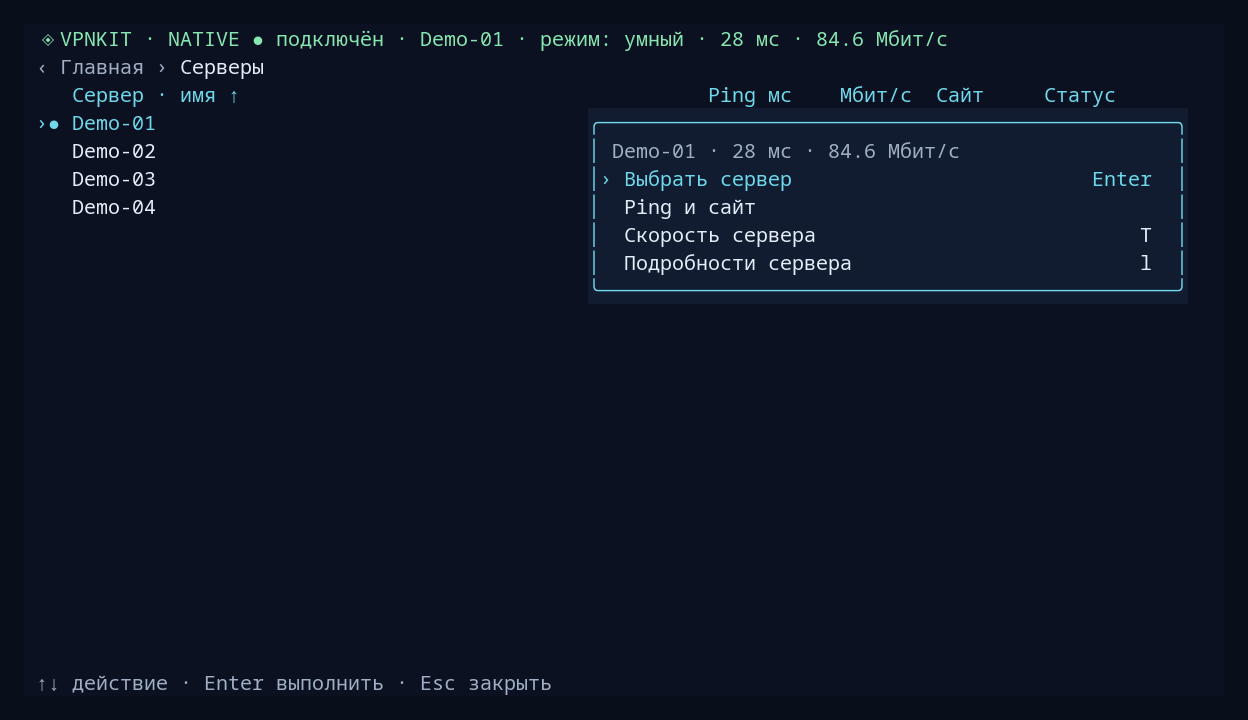
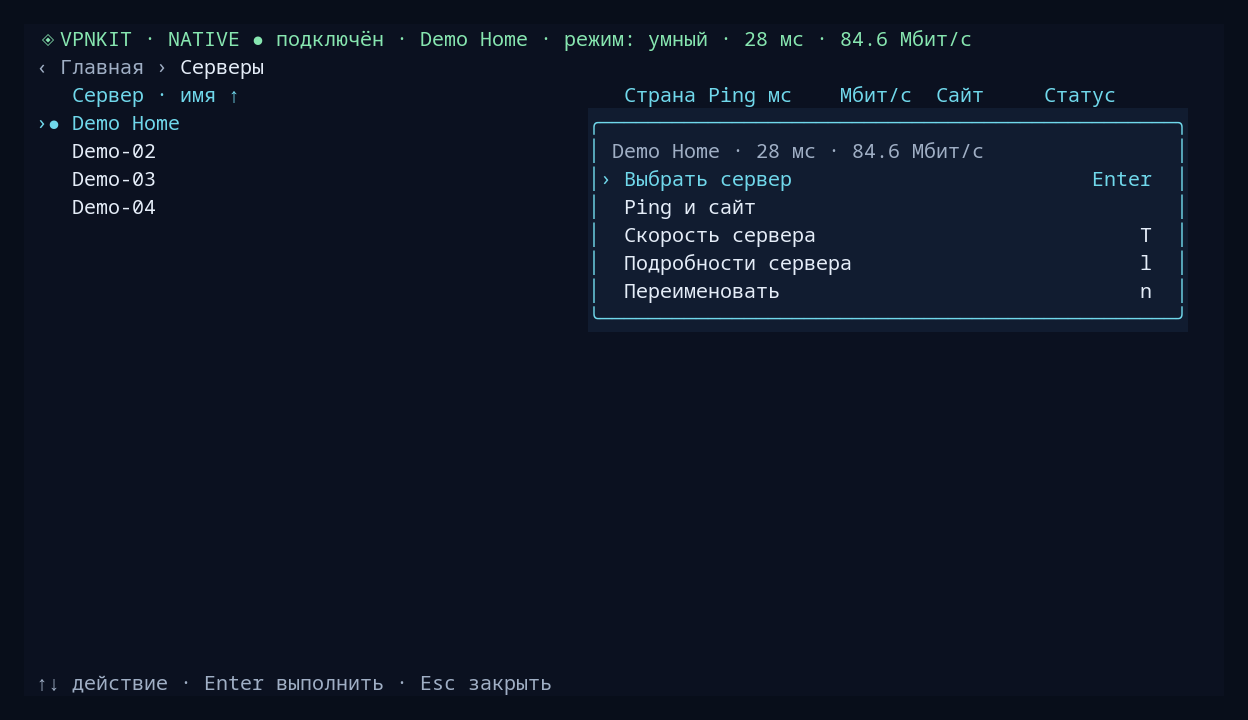
Document server countries and custom names

diff --git a/scripts/vpnkit/tui/capture-readme.ts b/scripts/vpnkit/tui/capture-readme.ts
@@ -11,7 +11,7 @@ await mkdir(output, { recursive: true });
 const status: Status = { runtime:"native", installed:true, vpn_state:"active", gateway_state:"healthy", subscription:"configured", routing_mode:"smart", networkmanager_configured:"yes", networkmanager_active:"yes", diagnostics:"ok" };
 const servers: Server[] = [
   ["Demo-01", 28, 84.6], ["Demo-02", 35, 72.3], ["Demo-03", 42, 61.8], ["Demo-04", 186, 39.4],
-].map(([name, latency, speed], i) => ({ profile_id:"demo-subscription", server_id:`srv_${String(i+1).repeat(27)}`, display_name:String(name), country:["NL", "DE", "FI", "JP"][i], selected:i===0, status:"ready", ping_status:"ready", availability:"ready", latency_ms:Number(latency), download_mbps:Number(speed), download_seconds:3 }));
+].map(([name, latency, speed], i) => ({ profile_id:"demo-subscription", server_id:`srv_${String(i+1).repeat(27)}`, display_name:i === 0 ? "Demo Home" : String(name), ...(i === 0 ? { original_name: String(name) } : {}), country:["NL", "DE", "FI", "JP"][i], selected:i===0, status:"ready", ping_status:"ready", availability:"ready", latency_ms:Number(latency), download_mbps:Number(speed), download_seconds:3 }));
 const profiles: NonNullable<Reply["profiles"]> = { active:"demo-subscription", items:[
   {id:"demo-subscription",name:"Моя подписка",kind:"subscription",count:4,stale:false},
   {id:"demo-vps",name:"Мой VPS · Hysteria2",kind:"server",count:1,stale:false},

diff --git a/docs/guide.ru.md b/docs/guide.ru.md
@@ -82,7 +82,7 @@ cd local-vpn-kde
 
 1. Нажмите `c` и добавьте первую подписку или одиночную ссылку на сервер. После настройки установленного native `c` открывает профили.
 2. Если служба остановлена, запустите её через плитку **Подключение** или `s`. Откройте **Серверы** (`v`); при необходимости обновите список (`r`).
-3. Выберите строку стрелками и нажмите `Enter`. В меню можно проверить ping и сайт, скорость или открыть подробности. Выберите **Выбрать сервер** и подтвердите выбор: по умолчанию выбрано «Нет», стрелки влево/вправо перемещают между кнопками.
+3. Выберите строку стрелками и нажмите `Enter`. В меню доступны «Выбрать сервер», «Ping и сайт», «Скорость сервера», «Подробности сервера» и «Переименовать». Выберите **Выбрать сервер** и подтвердите выбор: по умолчанию выбрано «Нет», стрелки влево/вправо перемещают между кнопками.
 4. Вернитесь на главный экран и выберите **Подключение** или нажмите `s` для подключения VPN.
 
 **«Служба готова» ещё не означает «VPN подключён».** Служба может работать для проверок, пока системное подключение выключено.
@@ -99,10 +99,10 @@ cd local-vpn-kde
 | `d` | Диагностика |
 | `i` | Настройки |
 | `Tab` / `Shift+Tab` | Следующий / предыдущий раздел из четырёх перечисленных выше |
-| `/` | Фильтр имён; `Enter` сохраняет, `Esc` очищает |
+| `/` | Фильтр отображаемого и исходного имени и кода страны; `Enter` сохраняет, `Esc` очищает |
 | `p` / `t` | Ping и сайт / скорость и сайт показанных серверов |
 | `T` / `b` | Проверить скорость сервера под курсором / предложить самый быстрый измеренный из показанных с подтверждением |
-| `o` / `[` / `]` / `\` | Следующая сортировка / выбрать столбец / обратить направление |
+| `o` / `[` / `]` / `\` | Следующая сортировка (имя, ping, скорость, сайт, страна) / выбрать столбец / обратить направление |
 | `l` | Сведения о сервере под курсором |
 | `:` / `Ctrl+P` | Поиск команд |
 | `j` / `k` | Задачи / отмена операции |
@@ -111,6 +111,12 @@ cd local-vpn-kde
 | `?` / `q` | Справка / выход из интерфейса |
 
 Строка состояния показывает выбранный сервер, а нижняя строка — доступные клавиши. `a` открывает автозапуск и не выполняет ping. Проверки могут пересекаться или ожидать в очереди; `j` показывает выполняющиеся, ожидающие и завершённые операции. Доступные действия и сочетания зависят от раздела и состояния службы.
+
+Таблица серверов показывает имя, двухбуквенный код страны, ping, скорость, доступность сайта и статус. При ширине таблицы меньше 60 символов столбец «Страна» скрыт. Сортировку можно выбрать и нажатием на заголовок столбца.
+
+Чтобы переименовать сервер, нажмите `Enter` на его строке и выберите «Переименовать». В редакторе `Enter` сохраняет, `Esc` отменяет, пустая строка возвращает имя из подписки. Редактор принимает до 60 символов; приложение нормализует имя, сохраняет не более 48 символов и требует не менее двух слов. Можно сохранить до 500 переименований. В локальном файле состояния `server-names.json` хранятся идентификаторы серверов и заданные имена; они переживают обновление подписки и перезапуск и не удаляются при удалении профиля. Исходное имя переименованного сервера показано в подробностях.
+
+Страна определяется офлайн по встроенному набору [server-country](https://github.com/sapics/ip-location-db) (общественное достояние, PDDL 1.0); адрес сервера не отправляется в сервис определения страны. Для известного IP код доступен сразу, для имени хоста может появиться после успешного ping, проверки или замера скорости. TCP ping использует адрес установленного соединения; при определении через прокси неоднозначные или неизвестные адреса не дают нового кода, а ранее определённый может сохраниться. Встроенная база — снимок данных, поэтому код может устареть.
 
 Настройки автозапуска применяются при следующем входе в KDE. Можно запускать только шлюз либо шлюз с подключением VPN. Отключение автозапуска не разрывает текущее соединение; TUI при входе автоматически не открывается. У Docker уже работающий шлюз также может перезапускаться согласно политике контейнера.
 

diff --git a/README.md b/README.md
@@ -67,7 +67,11 @@ cd local-vpn-kde
 
 Строка состояния показывает подключение, выбранный сервер и режим. `?` открывает справку, `:` или `Ctrl+P` — поиск команд, `j` — задачи. Проверки могут выполняться параллельно или ждать в очереди; отменить задачу можно в панели задач.
 
-В таблице `Enter` открывает меню строки: выбор сервера, ping и сайт, скорость или подробности. `/` фильтрует имена, `Enter` сохраняет фильтр, `Esc` очищает. `p` проверяет ping и сайт, `t` — скорость и сайт показанных серверов; `T` проверяет скорость сервера под курсором, `b` предлагает самый быстрый измеренный среди показанных с подтверждением. `o` меняет сортировку, `[` и `]` выбирают столбец, `\` меняет направление; заголовок столбца также можно нажать мышью. `l` открывает сведения, `i` — настройки; в профилях `X` удаляет активный профиль после подтверждения. `a` открывает автозапуск и не запускает ping.
+В таблице показаны имя, двухбуквенный код страны, ping, скорость, доступность сайта и статус. При ширине таблицы меньше 60 символов столбец «Страна» скрыт. `Enter` открывает меню строки: «Выбрать сервер», «Ping и сайт», «Скорость сервера», «Подробности сервера» и «Переименовать». `/` фильтрует отображаемое и исходное имена и код страны, `Enter` сохраняет фильтр, `Esc` очищает. `p` проверяет ping и сайт, `t` — скорость и сайт показанных серверов; `T` проверяет скорость сервера под курсором, `b` предлагает самый быстрый измеренный среди показанных с подтверждением. `o` меняет сортировку по кругу (имя, ping, скорость, сайт, страна), `[` и `]` выбирают столбец, `\` меняет направление; заголовок столбца также можно нажать мышью. `l` открывает сведения, `i` — настройки; в профилях `X` удаляет активный профиль после подтверждения. `a` открывает автозапуск и не запускает ping.
+
+В меню строки выберите «Переименовать»: `Enter` сохраняет имя, `Esc` отменяет, пустая строка возвращает имя из подписки. Редактор принимает до 60 символов; приложение нормализует имя, сохраняет не более 48 символов и требует не менее двух слов. Можно сохранить до 500 переименований. В локальном файле состояния `server-names.json` хранятся идентификаторы серверов и заданные имена; они переживают обновление подписки и перезапуск и не удаляются при удалении профиля. Исходное имя переименованного сервера показано в подробностях.
+
+Страна определяется офлайн по встроенному набору [server-country](https://github.com/sapics/ip-location-db) (общественное достояние, PDDL 1.0); адрес сервера не отправляется в сервис определения страны. Для известного IP код доступен сразу, для имени хоста может появиться после успешного ping, проверки или замера скорости. TCP ping использует адрес установленного соединения; при определении через прокси неоднозначные или неизвестные адреса не дают нового кода, а ранее определённый может сохраниться. Встроенная база — снимок данных, поэтому код может устареть.
 
 ## Подробнее
 

diff --git a/docs/guide.en.md b/docs/guide.en.md
@@ -82,7 +82,7 @@ The interface opens on a home screen with Connection («Подключение»
 
 1. Press `c` and add the first subscription or an individual server link. Once installed native mode is configured, `c` opens Profiles («Профили»).
 2. If the service is stopped, start it using the **Connection** tile or `s`. Open **Servers** (`v`, «Серверы»); refresh the list if needed (`r`).
-3. Choose a row with the arrows and press `Enter`. The menu can check ping and site, test speed or show details. Choose **Select server** («Выбрать сервер») and confirm: No («Нет») is selected by default, and Left/Right move between the buttons.
+3. Choose a row with the arrows and press `Enter`. The menu offers Select server («Выбрать сервер»), Ping and site («Ping и сайт»), Server speed («Скорость сервера»), Server details («Подробности сервера») and Rename («Переименовать»). Choose **Select server** and confirm: No («Нет») is selected by default, and Left/Right move between the buttons.
 4. Return home and choose **Connection** or press `s` to connect the VPN.
 
 **“Service ready” does not mean “VPN connected.”** The service can run checks while the system VPN connection remains off.
@@ -99,10 +99,10 @@ The interface opens on a home screen with Connection («Подключение»
 | `d` | Diagnostics |
 | `i` | Settings |
 | `Tab` / `Shift+Tab` | Next / previous section among the four listed above |
-| `/` | Filter names; `Enter` keeps it, `Esc` clears it |
+| `/` | Filter displayed and original names and country code; `Enter` keeps it, `Esc` clears it |
 | `p` / `t` | Ping and site / speed and site for shown servers |
 | `T` / `b` | Test the speed of the row under the cursor / offer the fastest measured shown server for confirmation |
-| `o` / `[` / `]` / `\` | Cycle sort / choose column / reverse direction |
+| `o` / `[` / `]` / `\` | Cycle sort (name, ping, speed, site, country) / choose column / reverse direction |
 | `l` | Details for the row under the cursor |
 | `:` / `Ctrl+P` | Search commands |
 | `j` / `k` | Activity / cancel operation |
@@ -111,6 +111,12 @@ The interface opens on a home screen with Connection («Подключение»
 | `?` / `q` | Help / exit the interface |
 
 The status line names the selected server and the footer shows available keys. `a` opens autostart; it does not run ping. Checks can overlap or wait in a queue; `j` shows running, queued and finished operations. Available actions and shortcuts depend on the section and service state.
+
+The server table shows name, two-letter country code, ping, speed, website access and status. The Country («Страна») column is hidden when the table is narrower than 60 characters. You can also choose a sort by clicking a column header.
+
+To rename a server, press `Enter` on its row and choose Rename («Переименовать»). In the editor, `Enter` saves, `Esc` cancels, and an empty line restores the subscription name. The editor accepts up to 60 characters; the application normalizes the name, stores at most 48 characters and requires at least two words. You can save up to 500 renamed servers. The local state file `server-names.json` holds server IDs and the chosen names; they survive subscription refresh and restart and are not removed when a profile is deleted. Details show the renamed server's original name.
+
+Country lookup is offline, using the embedded [server-country](https://github.com/sapics/ip-location-db) dataset (public domain, PDDL 1.0); no server address is sent to a country lookup service. A known IP's code is available immediately; for a hostname it may appear after a successful ping, check or speed measurement. TCP ping uses the connected address; a proxy lookup with ambiguous or unknown addresses supplies no new code, and a previously determined code may remain. The embedded database is a snapshot, so a code can become outdated.
 
 Autostart settings apply at the next KDE login. You can start only the gateway or also connect the VPN. Disabling autostart leaves the current connection running; the TUI does not open automatically at login. Docker may also restart an already-running gateway through its container restart policy.
 

diff --git a/README.en.md b/README.en.md
@@ -67,7 +67,11 @@ For the first connection, press `c` and add a subscription or link. If the servi
 
 The status line shows the connection, selected server and routing mode. `?` opens help, `:` or `Ctrl+P` searches commands, and `j` opens activity. Checks can overlap or wait in a queue; cancel a task from the activity panel.
 
-In the table, `Enter` opens the row menu: select the server, check ping and site, test speed or show details. `/` filters names, `Enter` keeps the filter and `Esc` clears it. `p` checks ping and website access and `t` checks speed and website access for the shown servers; `T` tests the speed of the row under the cursor and `b` offers the fastest measured shown server for confirmation. `o` cycles sort columns, `[` and `]` choose a column, and `\` reverses direction; clicking a header also sorts it. `l` opens server details, `i` opens settings, and `X` removes the active profile after confirmation. `a` opens autostart; it does not run ping.
+The table shows name, two-letter country code, ping, speed, website access and status. The Country («Страна») column is hidden when the table is narrower than 60 characters. `Enter` opens the row menu: Select server («Выбрать сервер»), Ping and site («Ping и сайт»), Server speed («Скорость сервера»), Server details («Подробности сервера») and Rename («Переименовать»). `/` filters the displayed and original names and country code, `Enter` keeps the filter and `Esc` clears it. `p` checks ping and website access and `t` checks speed and website access for the shown servers; `T` tests the speed of the row under the cursor and `b` offers the fastest measured shown server for confirmation. `o` cycles sort columns (name, ping, speed, site, country), `[` and `]` choose a column, and `\` reverses direction; clicking a header also sorts it. `l` opens server details, `i` opens settings, and `X` removes the active profile after confirmation. `a` opens autostart; it does not run ping.
+
+Choose Rename from the row menu: `Enter` saves, `Esc` cancels, and an empty line restores the subscription name. The editor accepts up to 60 characters; the application normalizes the name, stores at most 48 characters and requires at least two words. You can save up to 500 renamed servers. The local state file `server-names.json` holds server IDs and the chosen names; they survive subscription refresh and restart and are not removed when a profile is deleted. Details show the renamed server's original name.
+
+Country lookup is offline, using the embedded [server-country](https://github.com/sapics/ip-location-db) dataset (public domain, PDDL 1.0); no server address is sent to a country lookup service. A known IP's code is available immediately; for a hostname it may appear after a successful ping, check or speed measurement. TCP ping uses the connected address; a proxy lookup with ambiguous or unknown addresses supplies no new code, and a previously determined code may remain. The embedded database is a snapshot, so a code can become outdated.
 
 ## Learn more
 
